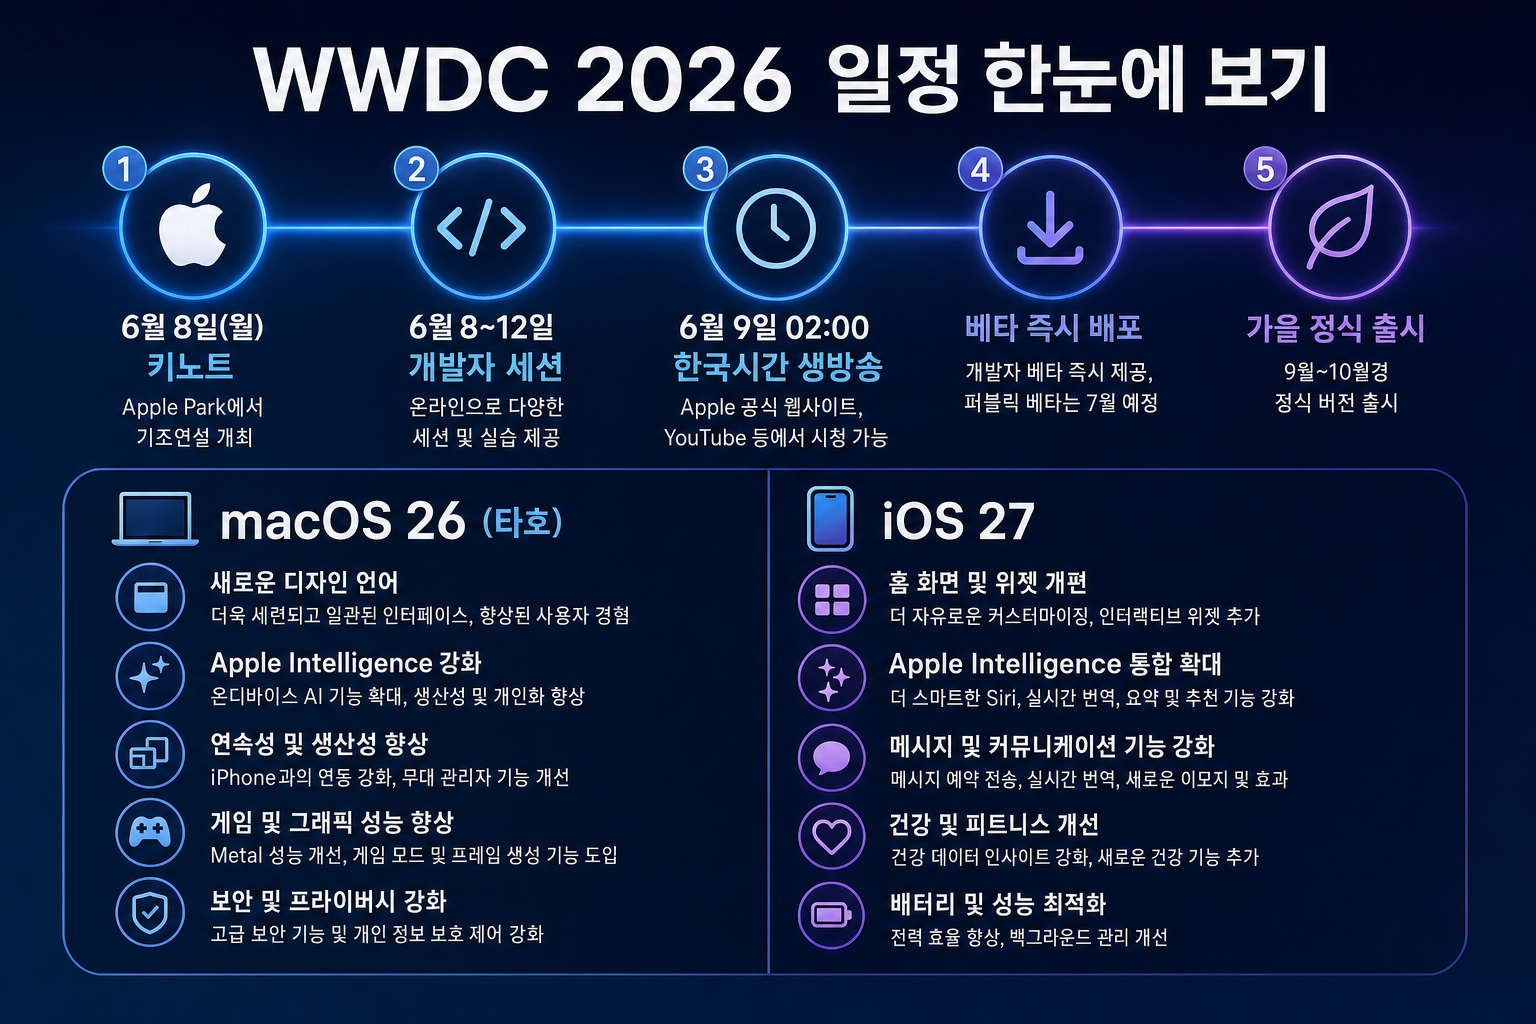
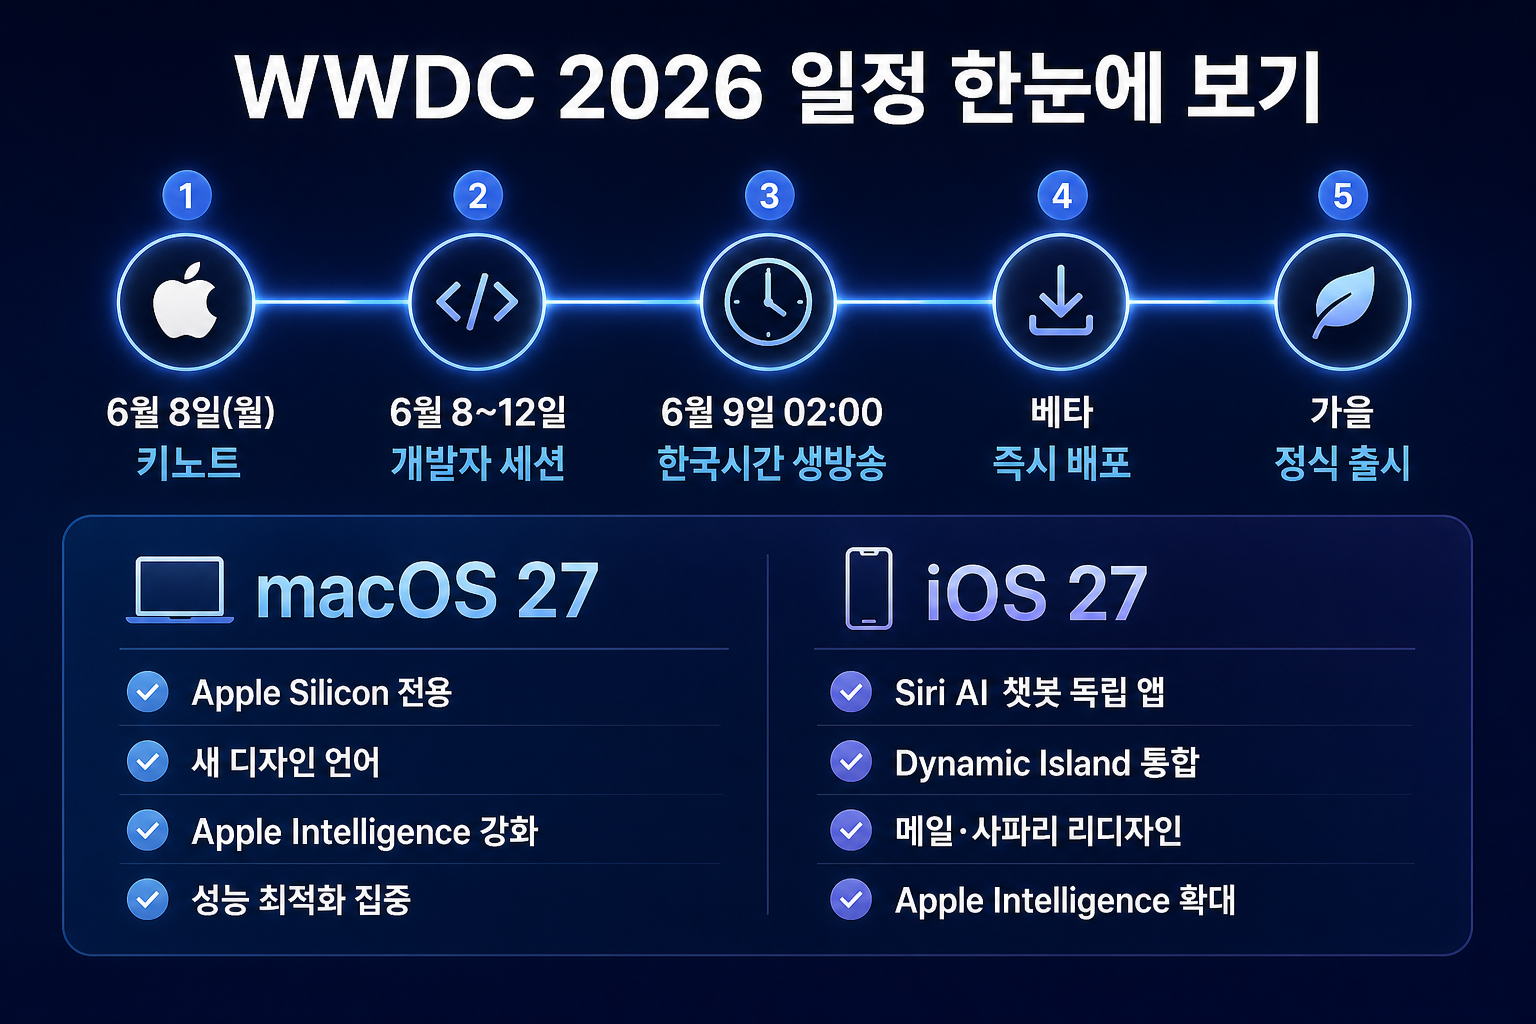
fix: WWDC 2026 포스트 macOS 버전 오류 수정 (26→27)
- macOS 26 타호는 2025년 9월 출시된 현재 버전
- WWDC 2026 발표 대상은 macOS 27로 전체 교정
- 인포그래픽 4장 재생성 (01 일정, 02 지원기기, 03 신기능, 04 루머신뢰도)
- HTML 본문 및 JSON-LD 구조화 데이터 동시 수정

Made-with: Cursor

Changed region(s): [[0.0312, 0.0312, 0.9688, 0.9688], [0.8125, 0.5, 0.9688, 0.9375]]

diff --git a/macbookit-tistory/wwdc-2026-루머-총정리.html b/macbookit-tistory/wwdc-2026-루머-총정리.html
@@ -1,21 +1,21 @@
 <!-- ===================================================
-  WWDC 2026 루머 총정리: 6월 8일 키노트에서 무엇이 나올까 — macOS 26·Siri·M5 Mac 예상 완벽 분석
+  WWDC 2026 루머 총정리: 6월 8일 키노트에서 무엇이 나올까 — macOS 27·Siri·M5 Mac 예상 완벽 분석
   macbookit (맥부킷) 티스토리 블로그용 HTML
   작성일: 2026-04-29
-  키워드: WWDC 2026, WWDC 2026 날짜, macOS 26 타호, iOS 27, Siri AI, M5 Mac mini, 인텔 맥 지원 종료
+  키워드: WWDC 2026, WWDC 2026 날짜, macOS 27, iOS 27, Siri AI, M5 Mac mini, 인텔 맥 지원 종료
 =================================================== -->
 
 <!--
 티스토리 태그 10개 (콤마 구분 — 그대로 복사)
 
-WWDC 2026, WWDC 2026 날짜, macOS 26 타호, iOS 27, Siri AI 챗봇, M5 Mac mini, 인텔 맥 지원 종료, Apple Intelligence, WWDC 루머, 맥부킷
+WWDC 2026, WWDC 2026 날짜, macOS 27, iOS 27, Siri AI 챗봇, M5 Mac mini, 인텔 맥 지원 종료, Apple Intelligence, WWDC 루머, 맥부킷
 -->
 
 <!-- ===== 요약 박스 (Top Picks) ===== -->
 <p style="text-align: center;" data-ke-size="size18">
 <b>🍎 WWDC 2026 핵심 요약</b><br /><br />
 📅 <b>일정</b> — 2026년 6월 8일(월) 키노트, 한국 시간 6월 9일 오전 2시 생방송<br />
-💻 <b>macOS 26 타호</b> — Intel Mac 지원 종료, M1 이상 전용 시대 개막<br />
+💻 <b>macOS 27</b> — Apple Silicon 전용 시대 개막 (macOS 26 타호가 인텔 Mac 마지막 버전)<br />
 🤖 <b>Siri 대변신</b> — Gemini 기반 AI 챗봇 앱 독립, 다단계 질문 처리 가능<br /><br />
 <a style="background:linear-gradient(135deg,#0071e3 0%,#147ce5 100%);color:#fff;padding:15px 30px;border-radius:10px;text-decoration:none;font-weight:bold;display:inline-block;box-shadow:0 4px 15px rgba(0,0,0,0.2);" href="#wwdc-rumors">👉 루머 신뢰도 분석 바로 보기 ↓</a>
 </p>
@@ -156,29 +156,30 @@ WWDC 2026, WWDC 2026 날짜, macOS 26 타호, iOS 27, Siri AI 챗봇, M5 Mac min
 
 <!-- ===== H2-3: macOS 26 타호 ===== -->
 <h2 style="text-align:center;" data-ke-size="size26" id="macos26">
-  <b>💻 macOS 26 타호(Tahoe) — Intel Mac과의 작별, M1 이상 전용 시대</b>
+  <b>💻 macOS 27 — Apple Silicon 전용 시대 개막, 인텔 Mac과의 완전한 작별</b>
 </h2>
 
 <!-- 인포그래픽 02 -->
 <figure style="text-align:center;margin:0 0 1.5rem 0">
   <img
     src="https://cdn.jsdelivr.net/gh/every-git/tistory-assets@main/images/2026-04-29-wwdc-2026-rumor/wwdc-2026-infographic-02-supported-devices.png"
-    alt="macOS 26 타호 지원 기기 정리 — M1 이상 지원, 인텔 Mac 지원 종료 목록 인포그래픽"
-    title="macOS 26 타호 지원 기기 정리"
+    alt="macOS 27 지원 기기 정리 — M1 이상 지원, 인텔 Mac macOS 26 타호에서 지원 종료 인포그래픽"
+    title="macOS 27 지원 기기 정리"
     style="max-width:100%;height:auto;border-radius:12px;box-shadow:0 8px 24px rgba(0,0,0,0.12);"
   />
   <figcaption style="font-size:0.85rem;color:#888;margin-top:8px">
-    macOS 26 지원 기기 vs 지원 종료 기기 — 내 맥북이 해당되는지 확인하세요
+    macOS 27 지원 기기 예상 — 인텔 Mac은 현재 버전 macOS 26 타호가 마지막입니다
   </figcaption>
 </figure>
 
 <p data-ke-size="size16">
-  이번 WWDC의 가장 큰 이슈 중 하나는 <b>macOS 26(코드명 타호·Tahoe)이 인텔 Mac을 지원하는 마지막 버전</b>이 된다는 루머입니다.
-  복수의 외신이 동시에 보도하면서 신뢰도가 높은 편입니다.
+  이번 WWDC의 가장 큰 이슈 중 하나는 <b>macOS 27부터 Apple Silicon 전용이 된다</b>는 것입니다.
+  현재 버전인 macOS 26 타호(Tahoe, 2025년 9월 출시)가 인텔 Mac을 지원하는 마지막 버전이며,
+  WWDC 2026에서 발표될 macOS 27은 <b>M1 이상 Apple Silicon Mac 전용</b>이 될 것으로 복수의 외신이 보도하고 있습니다.
 </p>
 
 <p data-ke-size="size16">
-  <b>macOS 26 (타호) 지원 예상 기기</b>:
+  <b>macOS 27 지원 예상 기기</b>:
 </p>
 
 <ul style="line-height:2;" data-ke-list-type="disc">
@@ -203,32 +204,33 @@ WWDC 2026, WWDC 2026 날짜, macOS 26 타호, iOS 27, Siri AI 챗봇, M5 Mac min
 
 <p style="padding:16px;background:#f0f8ff;border-left:4px solid #0071e3;border-radius:6px;margin:1rem 0;" data-ke-size="size14">
   💡 <b>인텔 Mac 사용자라면?</b><br />
-  macOS 26까지는 업데이트를 받을 수 있지만, 그 다음 버전(macOS 27)부터는 완전히 지원이 종료됩니다.
-  지금 당장 기기를 바꿀 필요는 없지만, 보안 업데이트 지원 종료 시점(보통 2~3년 후)을 미리 파악해 두는 것이 좋습니다.
+  현재 사용 중인 macOS 26 타호(Tahoe)가 마지막 메이저 업데이트입니다.
+  WWDC 2026에서 발표될 macOS 27부터는 완전히 지원이 종료됩니다.
+  보안 패치는 통상 2~3년간 추가 제공되므로 당장 교체 부담은 없지만, 기기 전환 시점을 미리 고려해 두는 것이 좋습니다.
 </p>
 
 <p data-ke-size="size16">
-  또한 이번 macOS 26이 <b>Rosetta 2(인텔 앱 호환 레이어)를 지원하는 마지막 버전</b>이 될 것이라는 관측도 있습니다.
-  인텔 전용 앱을 아직 사용 중이라면 앱 업데이트 여부를 반드시 확인해야 합니다.
+  또한 macOS 26 타호가 <b>Rosetta 2(인텔 앱 호환 레이어)를 지원하는 마지막 버전</b>이 될 것이라는 관측도 있습니다.
+  인텔 전용 앱을 아직 사용 중이라면 macOS 27 이전에 앱 업데이트 여부를 반드시 확인해야 합니다.
 </p>
 
 <hr contenteditable="false" data-ke-type="horizontalRule" data-ke-style="style5" />
 
 <!-- ===== H2-4: iOS 27 & macOS 26 신기능 루머 ===== -->
 <h2 style="text-align:center;" data-ke-size="size26" id="new-features">
-  <b>🤖 iOS 27 & macOS 26 주요 신기능 루머 — Siri부터 Apple Intelligence까지</b>
+  <b>🤖 iOS 27 & macOS 27 주요 신기능 루머 — Siri부터 Apple Intelligence까지</b>
 </h2>
 
 <!-- 인포그래픽 03 -->
 <figure style="text-align:center;margin:0 0 1.5rem 0">
   <img
     src="https://cdn.jsdelivr.net/gh/every-git/tistory-assets@main/images/2026-04-29-wwdc-2026-rumor/wwdc-2026-infographic-03-new-features.png"
-    alt="iOS 27 & macOS 26 주요 신기능 루머 — Siri AI 챗봇, Dynamic Island, Apple Intelligence 확대 인포그래픽"
-    title="iOS 27 & macOS 26 신기능 루머"
+    alt="iOS 27 & macOS 27 주요 신기능 루머 — Siri AI 챗봇, Dynamic Island, Apple Intelligence 확대 인포그래픽"
+    title="iOS 27 & macOS 27 신기능 루머"
     style="max-width:100%;height:auto;border-radius:12px;box-shadow:0 8px 24px rgba(0,0,0,0.12);"
   />
   <figcaption style="font-size:0.85rem;color:#888;margin-top:8px">
-    iOS 27 & macOS 26 주요 신기능 루머 6가지 — 신뢰도 중간~높음 항목 중심
+    iOS 27 & macOS 27 주요 신기능 루머 6가지 — 신뢰도 중간~높음 항목 중심
   </figcaption>
 </figure>
 
@@ -247,7 +249,7 @@ WWDC 2026, WWDC 2026 날짜, macOS 26 타호, iOS 27, Siri AI 챗봇, M5 Mac min
   <li>내부 AI 모델: 구글 Gemini 기반 "Apple Foundation Models v11" 사용 예상</li>
   <li>다단계 질문(multi-step queries) 처리 가능</li>
   <li>웹 검색, 이미지 생성, 코딩 지원, 파일 업로드 지원 예정</li>
-  <li>iOS 27과 macOS 26에 동시 적용</li>
+  <li>iOS 27과 macOS 27에 동시 적용</li>
 </ul>
 
 <h3 data-ke-size="size20"><b>② Dynamic Island — Siri 통합 인터페이스</b></h3>
@@ -370,7 +372,7 @@ WWDC 2026, WWDC 2026 날짜, macOS 26 타호, iOS 27, Siri AI 챗봇, M5 Mac min
 </table>
 
 <p data-ke-size="size16">
-  특히 인텔 Mac 사용자라면 <b>macOS 26이 마지막 메이저 업데이트</b>가 될 수 있으므로,
+  특히 인텔 Mac 사용자라면 <b>현재 사용 중인 macOS 26 타호가 마지막 메이저 업데이트</b>이므로,
   이번 업데이트 후 기기 상태와 앱 호환성을 꼼꼼히 점검해 두는 것이 좋습니다.
 </p>
 
@@ -387,14 +389,16 @@ WWDC 2026, WWDC 2026 날짜, macOS 26 타호, iOS 27, Siri AI 챗봇, M5 Mac min
   apple.com과 유튜브 Apple 채널에서 무료로 생방송 시청이 가능합니다.
 </p>
 
-<p data-ke-size="size16"><b>Q2. macOS 26의 이름(코드명)은 무엇인가요?</b></p>
+<p data-ke-size="size16">  <b>Q2. WWDC 2026에서 발표될 macOS 버전은 무엇인가요?</b></p>
 <p data-ke-size="size16">
-  현재까지 나온 루머에 따르면 코드명은 <b>"타호(Tahoe)"</b>입니다. 공식 이름은 키노트에서 발표됩니다.
+  <b>macOS 27</b>입니다. 현재 사용 중인 macOS 26 타호(Tahoe)는 2025년 WWDC에서 발표되어 2025년 9월 출시된 버전입니다.
+  WWDC 2026에서는 그 다음 버전인 macOS 27이 발표될 예정입니다.
 </p>
 
-<p data-ke-size="size16"><b>Q3. 인텔 맥북도 macOS 26을 설치할 수 있나요?</b></p>
+<p data-ke-size="size16"><b>Q3. 인텔 맥북도 macOS 27을 설치할 수 있나요?</b></p>
 <p data-ke-size="size16">
-  루머에 따르면 <b>macOS 26까지는 인텔 Mac도 지원</b>됩니다. 단, macOS 27부터는 지원이 종료될 예정입니다.
+  설치할 수 없을 것으로 예상됩니다. <b>현재 사용 중인 macOS 26 타호가 인텔 Mac을 지원하는 마지막 버전</b>이며,
+  macOS 27부터는 Apple Silicon(M1 이상) 전용이 될 예정입니다.
   공식 지원 기기 목록은 키노트 당일 apple.com/macos에서 확인하세요.
 </p>
 
@@ -433,8 +437,8 @@ WWDC 2026, WWDC 2026 날짜, macOS 26 타호, iOS 27, Siri AI 챗봇, M5 Mac min
 {
   "@context": "https://schema.org",
   "@type": "BlogPosting",
-  "headline": "WWDC 2026 루머 총정리: 6월 8일 키노트에서 무엇이 나올까 — macOS 26·Siri·M5 Mac",
-  "description": "WWDC 2026 일정(6월 8일), macOS 26 타호 지원기기, Siri AI 챗봇 개편, M5 Mac mini·Mac Studio 루머를 신뢰도별로 완벽 정리한 가이드",
+  "headline": "WWDC 2026 루머 총정리: 6월 8일 키노트에서 무엇이 나올까 — macOS 27·Siri·M5 Mac",
+  "description": "WWDC 2026 일정(6월 8일), macOS 27 지원기기 예상, Siri AI 챗봇 개편, M5 Mac mini·Mac Studio 루머를 신뢰도별로 완벽 정리한 가이드",
   "image": "https://cdn.jsdelivr.net/gh/every-git/tistory-assets@main/images/2026-04-29-wwdc-2026-rumor/wwdc-2026-thumbnail.png",
   "datePublished": "2026-04-29",
   "dateModified": "2026-04-29",
@@ -468,18 +472,18 @@ WWDC 2026, WWDC 2026 날짜, macOS 26 타호, iOS 27, Siri AI 챗봇, M5 Mac min
     },
     {
       "@type": "Question",
-      "name": "macOS 26의 이름(코드명)은 무엇인가요?",
+      "name": "WWDC 2026에서 발표될 macOS의 버전은 무엇인가요?",
       "acceptedAnswer": {
         "@type": "Answer",
-        "text": "현재까지 나온 루머에 따르면 코드명은 타호(Tahoe)입니다. 공식 이름은 키노트에서 발표됩니다."
+        "text": "macOS 27입니다. 현재 사용 중인 macOS 26 타호(Tahoe)는 2025년 9월 출시된 버전으로, WWDC 2026에서는 그 다음 버전인 macOS 27이 발표될 예정입니다."
       }
     },
     {
       "@type": "Question",
-      "name": "인텔 맥북도 macOS 26을 설치할 수 있나요?",
+      "name": "인텔 맥북에서 macOS 27을 설치할 수 있나요?",
       "acceptedAnswer": {
         "@type": "Answer",
-        "text": "루머에 따르면 macOS 26까지는 인텔 Mac도 지원됩니다. 단, macOS 27부터는 지원이 종료될 예정입니다."
+        "text": "설치할 수 없을 것으로 예상됩니다. 현재 사용 중인 macOS 26 타호(Tahoe)가 인텔 Mac을 지원하는 마지막 버전이며, WWDC 2026에서 발표될 macOS 27부터는 Apple Silicon(M1 이상) 전용이 될 예정입니다."
       }
     },
     {
